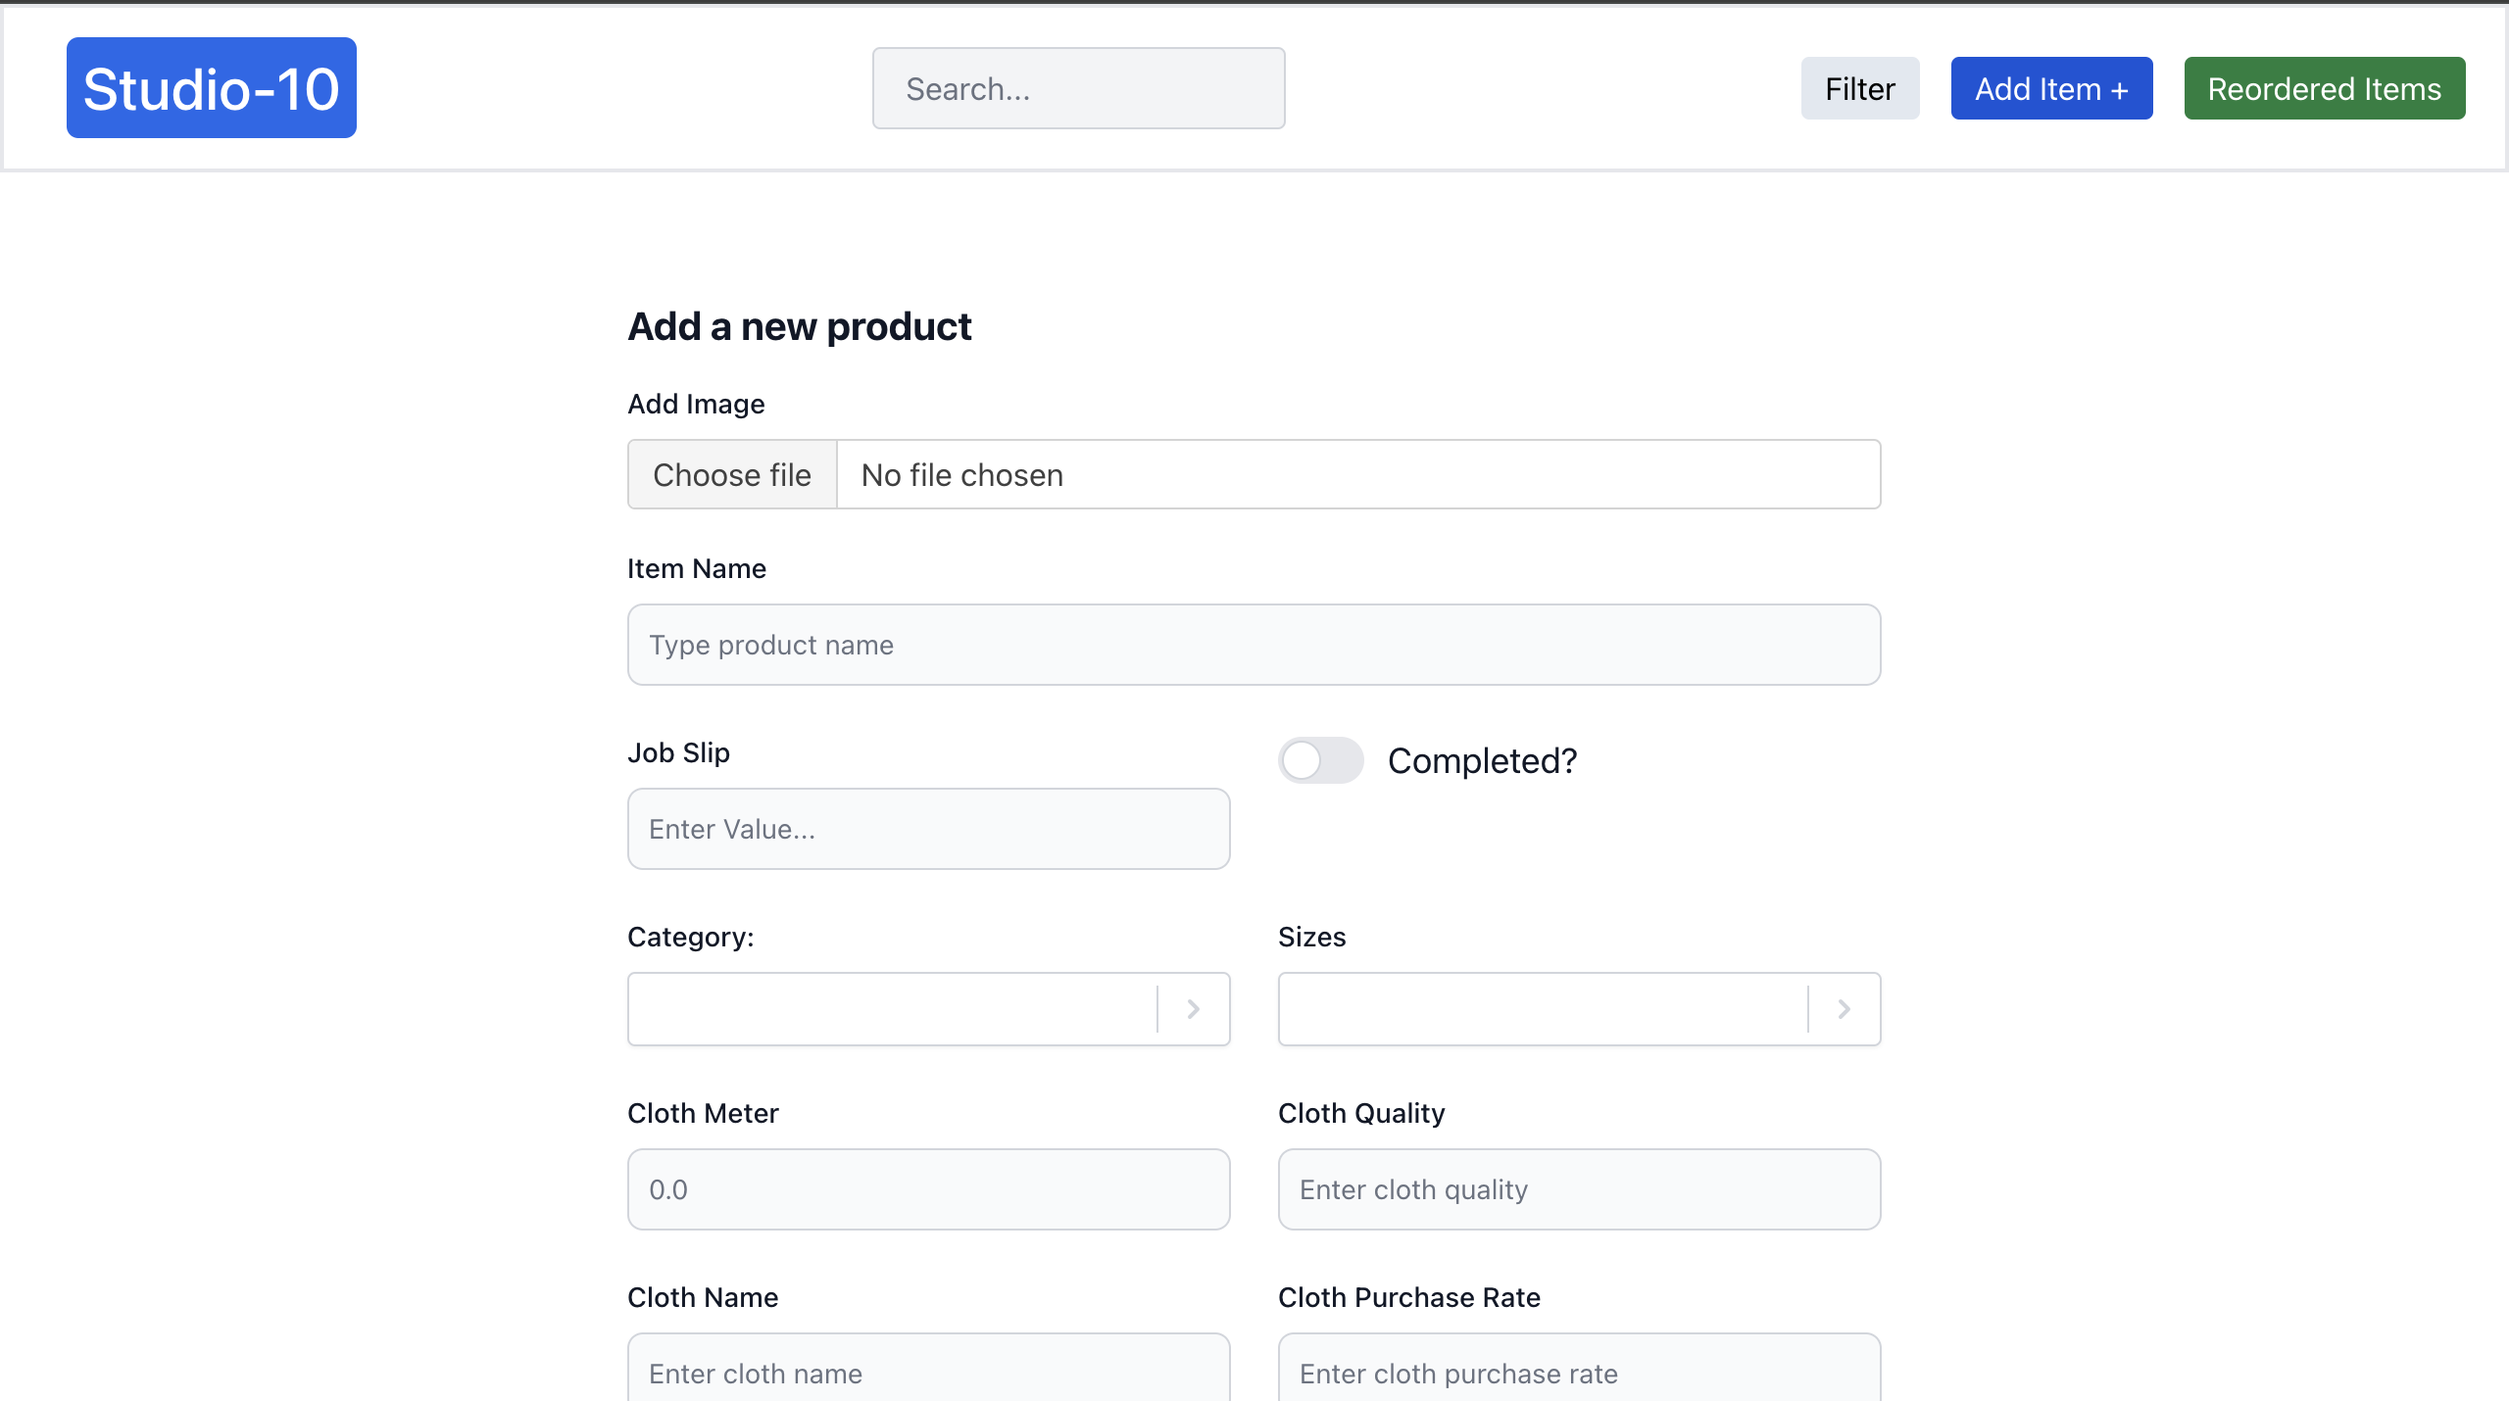
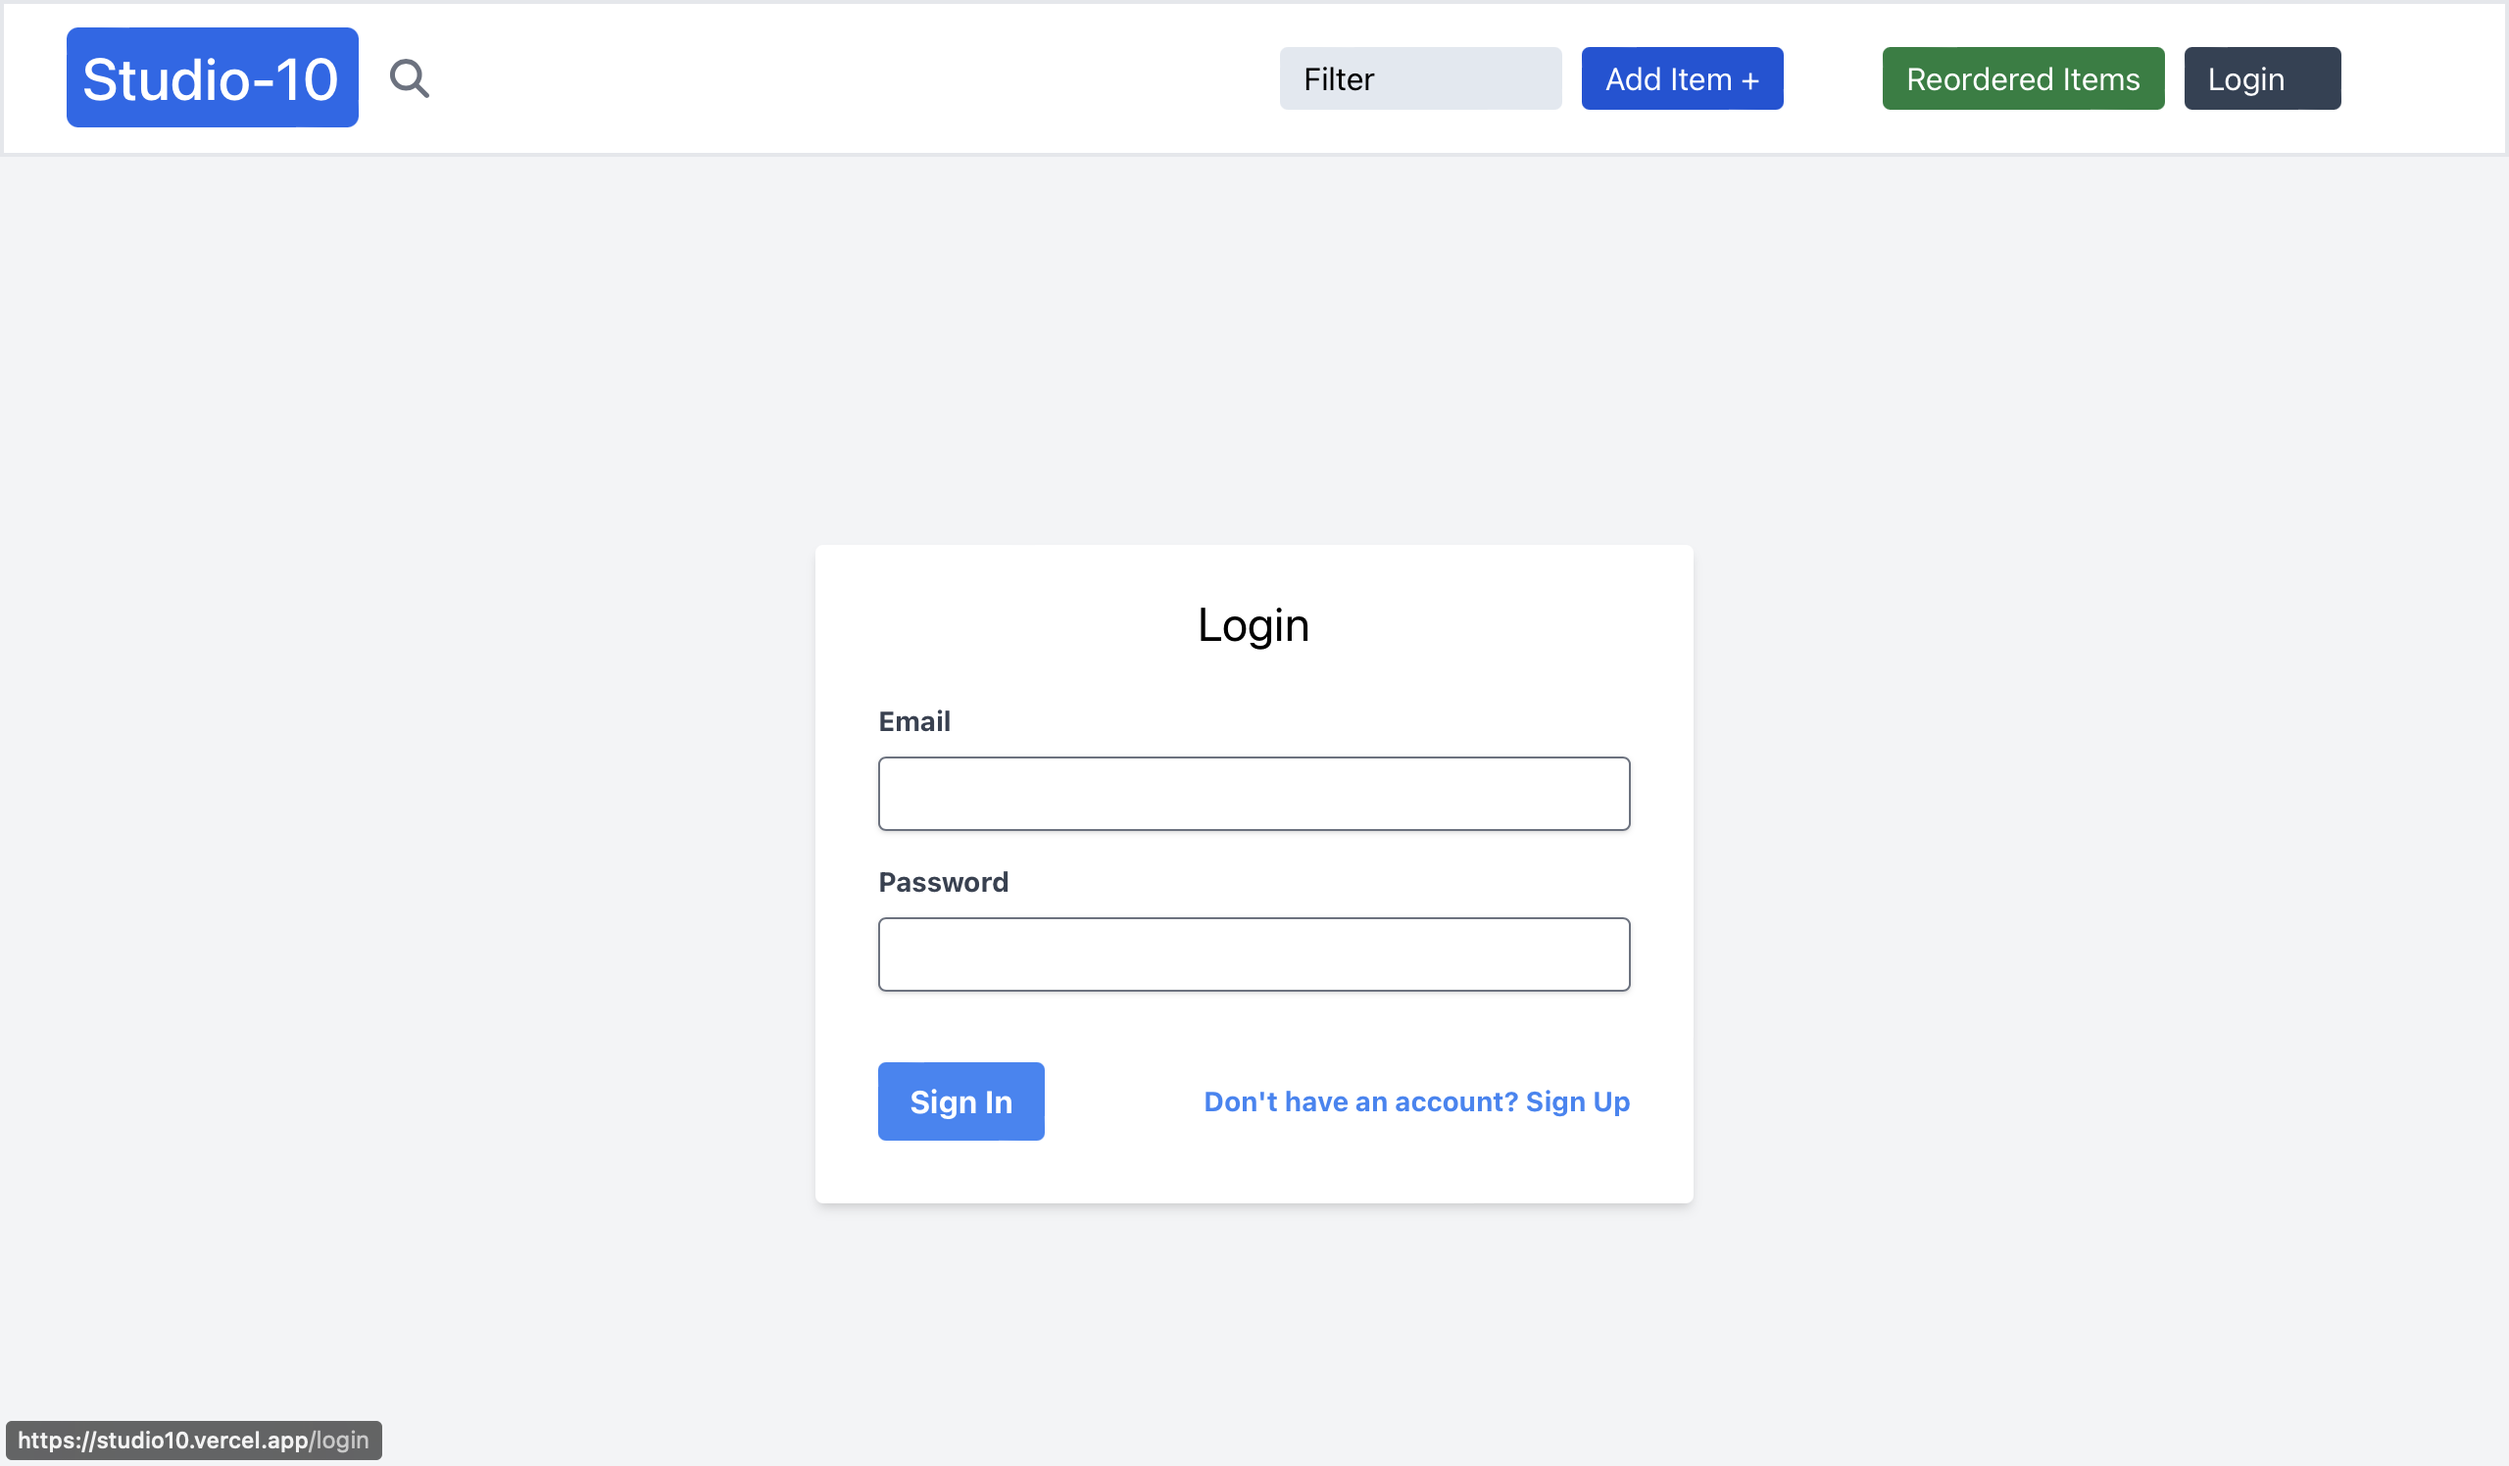
-img

diff --git a/app/work/page.jsx b/app/work/page.jsx
@@ -34,14 +34,15 @@ const projects=[
   },
   {
     num:"03",
-    category:'Frontend',
-    title:'MyOnlineMeals',
-    description:'Frontend for ordering food online from local restaurants',
+    category:'Front End',
+    title:'Guess Game',
+    description:'A simple game to guess a number chosen by computer',
     stack:[{name:'HTML'},{name:'CSS'},{name:'JavaScript'}],
-    image:'/assets/projects/onlinemeals.png',
-    live:'https://cs251000.github.io/MyOnlineMeals/',
-    github:'https://github.com/CS251000/MyOnlineMeals',
+    image:'/assets/projects/guess.png',
+    live:'https://cs251000.github.io/guess-the-number/',
+    github:'https://github.com/CS251000/guess-the-number',
   },
+  
   {
     num:"04",
     category:'Full Stack',
@@ -52,6 +53,37 @@ const projects=[
     live:'https://stdio10.onrender.com',
     github:'https://github.com/CS251000/STUDIO-10',
   },
+  {
+    num:"05",
+    category:'Frontend',
+    title:'MyOnlineMeals',
+    description:'Frontend for ordering food online from local restaurants',
+    stack:[{name:'HTML'},{name:'CSS'},{name:'JavaScript'}],
+    image:'/assets/projects/onlinemeals.png',
+    live:'https://cs251000.github.io/MyOnlineMeals/',
+    github:'https://github.com/CS251000/MyOnlineMeals',
+  },
+  {
+    num:"06",
+    category:'Frontend',
+    title:'Pig-Game',
+    description:'Just a fun 2 player game made with js html and css focusing on dom manipulation and css design manipulation',
+    stack:[{name:'HTML'},{name:'CSS'},{name:'JavaScript'}],
+    image:'/assets/projects/pig.png',
+    live:'https://cs251000.github.io/Pig-Game/',
+    github:'https://github.com/CS251000/Pig-Game',
+  },
+  {
+    num:"07",
+    category:'Frontend',
+    title:'My-Calendar',
+    description:' Project that allows users to create events and tasks on specific dates.',
+    stack:[{name:'HTML'},{name:'CSS'},{name:'JavaScript'}],
+    image:'/assets/projects/cal.png',
+    live:'https://cs251000.github.io/MyCalendar/',
+    github:'https://github.com/CS251000/MyCalendar',
+  },
+  
 
 ];
 
